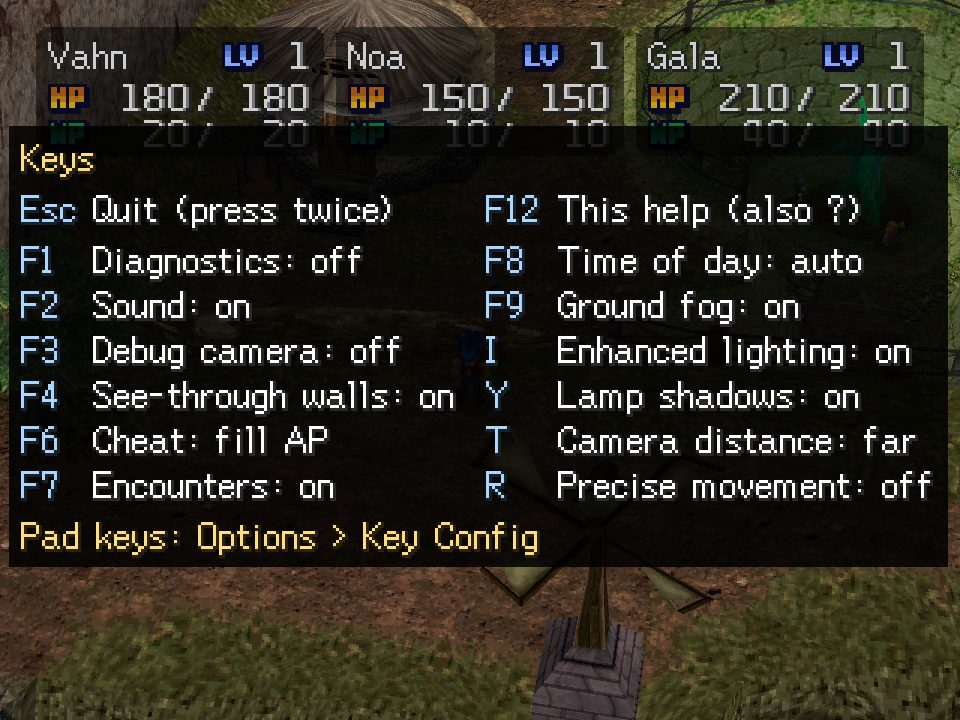
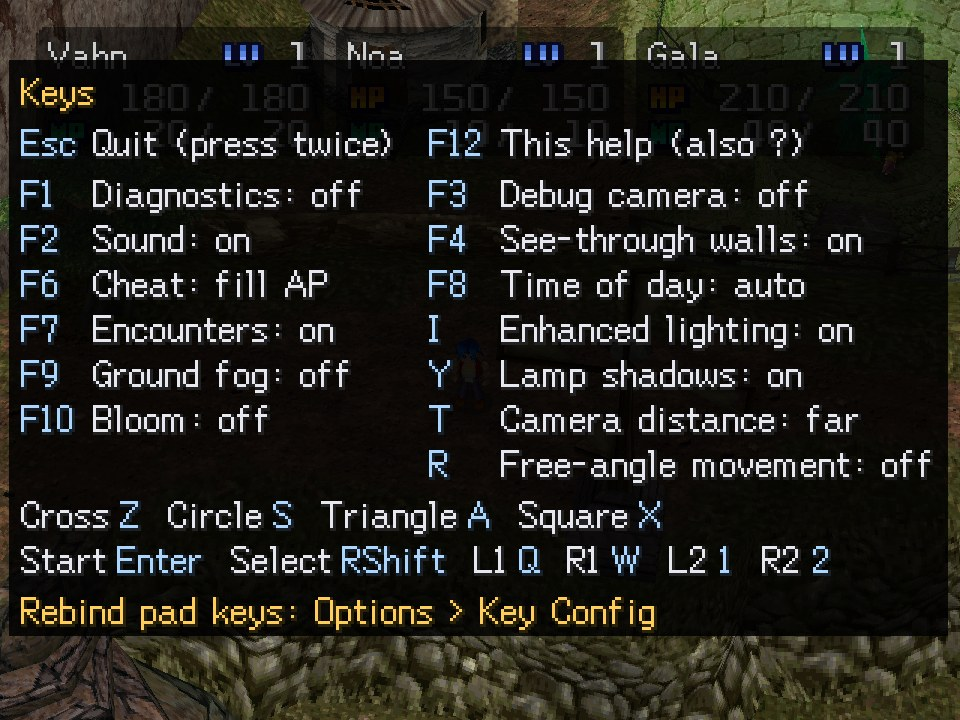
F12 panel: show the key each pad button is on
The play window's help panel listed only the host toggles and pointed at
Options > Key Config for the pad keys - which a new player cannot reach
without already knowing which key is Start and which is Cross. The panel now
lists Cross / Circle / Triangle / Square and Start / Select / L1..R2 with
their keys, read from the live binding table so a rebind shows; the layout
test holds it inside the stage in the dialog-font metrics and the disc font.

diff --git a/site/_content/guides/playing-and-viewing.html b/site/_content/guides/playing-and-viewing.html
@@ -132,7 +132,7 @@
       <tr><td><kbd>F3</kbd></td><td>Wide debug orbit camera instead of the field camera</td><td>off</td></tr>
     </tbody>
   </table>
-  <p>In the native window each press shows the toggle's new state at the bottom left for a moment (<em>Ground fog: off</em>); holding a key toggles once, not repeatedly. A key that only acts while you walk around (<kbd>F3</kbd>, <kbd>T</kbd>, <kbd>R</kbd>) says so when pressed on the title screen or in a menu. <kbd>F12</kbd> (or <kbd>?</kbd>) opens a panel listing every toggle key with its current state; press it again to close it.</p>
+  <p>In the native window each press shows the toggle's new state at the bottom left for a moment (<em>Ground fog: off</em>); holding a key toggles once, not repeatedly. A key that only acts while you walk around (<kbd>F3</kbd>, <kbd>T</kbd>, <kbd>R</kbd>) says so when pressed on the title screen or in a menu. <kbd>F12</kbd> (or <kbd>?</kbd>) opens a panel listing every toggle key with its current state, and the key each pad button is on (Cross, Circle, Start, ...); press it again to close it.</p>
   <p>The browser play page answers the same keys with the canvas focused. Its presentation toggles sit in one <strong>Visual enhancements</strong> panel under the canvas: each row names its key, says in a line what it does and whether it is a port enhancement or part of the PS1's own drawing, and the panel carries the Retail-faithful switch and a <strong>Reset to defaults</strong> button.</p>
   <p><code>--retail</code> starts a session with every enhancement off and the remembered engine-only options (camera distance, movement mode, the photosensitivity guard) at their retail values, writing nothing back to the options file - the one switch for a retail-faithful run. It also pins the engine's own deviations to retail: the ledge-hop landing guard, smart monsters, overworld markers and the saved-chain Arts list go off and the battle kernels run retail's. The browser play page's <strong>Retail-faithful</strong> switch applies the same pin.</p>
   <p class="hint">Window toggles and pad bindings cannot collide: a window key is handled <em>before</em> the pad lookup, so one parked on a bindable key would delete that button from the keyboard. Every toggle therefore lives on an F-key or a letter outside the bindable vocabulary (the key table above plus <kbd>C</kbd>, <kbd>V</kbd>, <kbd>D</kbd>, <kbd>E</kbd>).</p>

diff --git a/crates/engine-shell/src/window/hud/text_list.rs b/crates/engine-shell/src/window/hud/text_list.rs
@@ -115,7 +115,8 @@ impl PlayWindowApp {
                 (hk.key_label(), line)
             })
             .collect();
-        let l = help_panel_layout(&self.font, &entries);
+        let pad = pad_key_rows(&self.mapping);
+        let l = help_panel_layout(&self.font, &entries, &pad);
         let mut out = Vec::new();
         self.push_scrim(
             &mut out,
@@ -139,7 +140,19 @@ impl PlayWindowApp {
             put(line, (at.0 + l.key_w, at.1), TEXT);
         }
         y += l.rows as i32 * l.line_h + 2;
-        put(HELP_FOOTER, (l.x0, y), HEADING);
+        // The pad buttons' keys: what Cross / Circle / Start are on this
+        // keyboard, read off the live binding table so a rebind shows.
+        for row in &pad {
+            let mut x = l.x0;
+            for (button, key) in row {
+                put(button, (x, y), TEXT);
+                x += self.font.layout_ascii(button).advance_x as i32 + PAD_KEY_GAP;
+                put(key, (x, y), KEY);
+                x += self.font.layout_ascii(key).advance_x as i32 + PAD_PAIR_GAP;
+            }
+            y += l.line_h;
+        }
+        put(HELP_FOOTER, (l.x0, y + 2), HEADING);
         out
     }
 
@@ -738,7 +751,36 @@ impl PlayWindowApp {
 /// The help panel's fixed rows.
 const HELP_QUIT: &str = "Quit (press twice)";
 const HELP_SELF: &str = "This help (also ?)";
-const HELP_FOOTER: &str = "Pad keys: Options > Key Config";
+const HELP_FOOTER: &str = "Rebind pad keys: Options > Key Config";
+
+/// The pad buttons the help panel names a key for, one panel line each. The
+/// arrow keys' D-pad is left out: it is the one binding a player guesses.
+const PAD_ROWS: [&[&str]; 2] = [
+    &["Cross", "Circle", "Triangle", "Square"],
+    &["Start", "Select", "L1", "R1", "L2", "R2"],
+];
+/// Between a pad button's name and its key, and between two such pairs
+/// (stage pixels).
+const PAD_KEY_GAP: i32 = 3;
+const PAD_PAIR_GAP: i32 = 9;
+
+/// The help panel's pad rows: each button with the key bound to it (the
+/// alphabetically first when several are; `-` when none is).
+pub(in crate::window) fn pad_key_rows(
+    mapping: &legaia_engine_system::input::Mapping,
+) -> Vec<Vec<(&'static str, String)>> {
+    PAD_ROWS
+        .iter()
+        .map(|row| {
+            row.iter()
+                .map(|&b| {
+                    let key = mapping.key_label_for_button(b).unwrap_or("-");
+                    (b, key.to_string())
+                })
+                .collect()
+        })
+        .collect()
+}
 
 /// Where the hotkey help panel's two columns go, in stage pixels.
 #[derive(Debug, Clone, PartialEq, Eq)]
@@ -771,12 +813,23 @@ pub(in crate::window) struct HelpPanelLayout {
 pub(in crate::window) fn help_panel_layout(
     font: &legaia_font::Font,
     entries: &[(&str, String)],
+    pad: &[Vec<(&str, String)>],
 ) -> HelpPanelLayout {
     help_panel_layout_with(
         &|s: &str| font.layout_ascii(s).advance_x as i32,
         font.layout_ascii("Ag").advance_y as i32 + 1,
         entries,
+        pad,
     )
+}
+
+/// The drawn width of one pad row.
+fn pad_row_width(width: &dyn Fn(&str) -> i32, row: &[(&str, String)]) -> i32 {
+    let pairs: i32 = row
+        .iter()
+        .map(|(b, k)| width(b) + PAD_KEY_GAP + width(k))
+        .sum();
+    pairs + PAD_PAIR_GAP * (row.len() as i32 - 1).max(0)
 }
 
 /// [`help_panel_layout`] over any text metric.
@@ -784,7 +837,13 @@ fn help_panel_layout_with(
     width: &dyn Fn(&str) -> i32,
     line_h: i32,
     entries: &[(&str, String)],
+    pad: &[Vec<(&str, String)>],
 ) -> HelpPanelLayout {
+    let pad_w = pad
+        .iter()
+        .map(|r| pad_row_width(width, r))
+        .max()
+        .unwrap_or(0);
     let stage_w = legaia_engine_ui::BOOT_UI_STAGE_W as i32;
     let stage_h = legaia_engine_ui::BOOT_UI_STAGE_H as i32;
     let key_w = entries
@@ -812,8 +871,8 @@ fn help_panel_layout_with(
         let right_w = col(true, HELP_SELF);
         let in_right = right.iter().filter(|r| **r).count();
         let rows = in_right.max(n - in_right);
-        let body = (left_w + right_w).max(width(HELP_FOOTER));
-        let height = (rows as i32 + 3) * line_h + 12;
+        let body = (left_w + right_w).max(width(HELP_FOOTER)).max(pad_w);
+        let height = (rows as i32 + 3 + pad.len() as i32) * line_h + 12;
         (left_w, body, rows, height)
     };
     let even = n.div_ceil(2);
@@ -891,7 +950,8 @@ mod help_panel_tests {
 
     fn assert_fits(width: &dyn Fn(&str) -> i32, line_h: i32, what: &str) -> HelpPanelLayout {
         let entries = worst_entries();
-        let l = help_panel_layout_with(width, line_h, &entries);
+        let pad = pad_key_rows(&legaia_engine_system::input::Mapping::default());
+        let l = help_panel_layout_with(width, line_h, &entries, &pad);
         let stage_w = legaia_engine_ui::BOOT_UI_STAGE_W as i32;
         let stage_h = legaia_engine_ui::BOOT_UI_STAGE_H as i32;
         // The scrim reaches 4 px past the text on every side.
@@ -908,7 +968,37 @@ mod help_panel_tests {
                 "{what}: {line:?} runs past the panel"
             );
         }
+        for row in &pad {
+            assert!(
+                pad_row_width(width, row) <= l.width,
+                "{what}: pad row {row:?} runs past the panel"
+            );
+        }
         l
+    }
+
+    /// The pad rows name the default keyboard layout's keys, and follow a
+    /// rebind.
+    #[test]
+    fn pad_rows_read_the_binding_table() {
+        use legaia_engine_system::input::Mapping;
+        let rows = pad_key_rows(&Mapping::default());
+        let flat: Vec<(&str, &str)> = rows
+            .iter()
+            .flatten()
+            .map(|(b, k)| (*b, k.as_str()))
+            .collect();
+        assert!(flat.contains(&("Cross", "Z")));
+        assert!(flat.contains(&("Circle", "S")));
+        // Start takes Enter and Space; the first by name is shown.
+        assert!(flat.contains(&("Start", "Enter")));
+        let mut m = Mapping::default();
+        m.bindings.retain(|_, b| b != "Cross");
+        m.bindings.insert("C".into(), "Cross".into());
+        m.bindings.retain(|_, b| b != "Select");
+        let rows = pad_key_rows(&m);
+        assert!(rows[0].contains(&("Cross", "C".to_string())));
+        assert!(rows[1].contains(&("Select", "-".to_string())));
     }
 
     /// Disc-free: a proportional metric at the dialog font's typical
